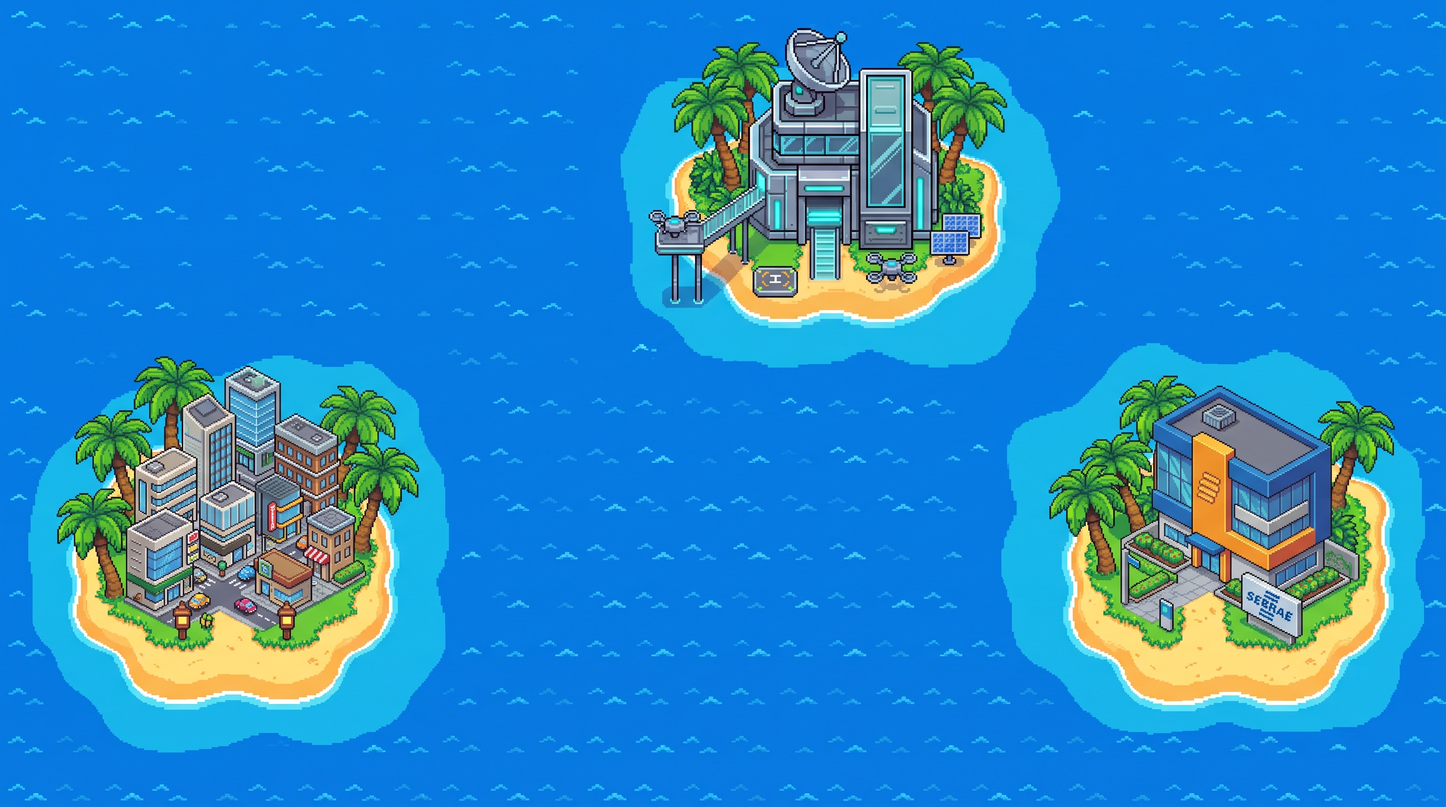
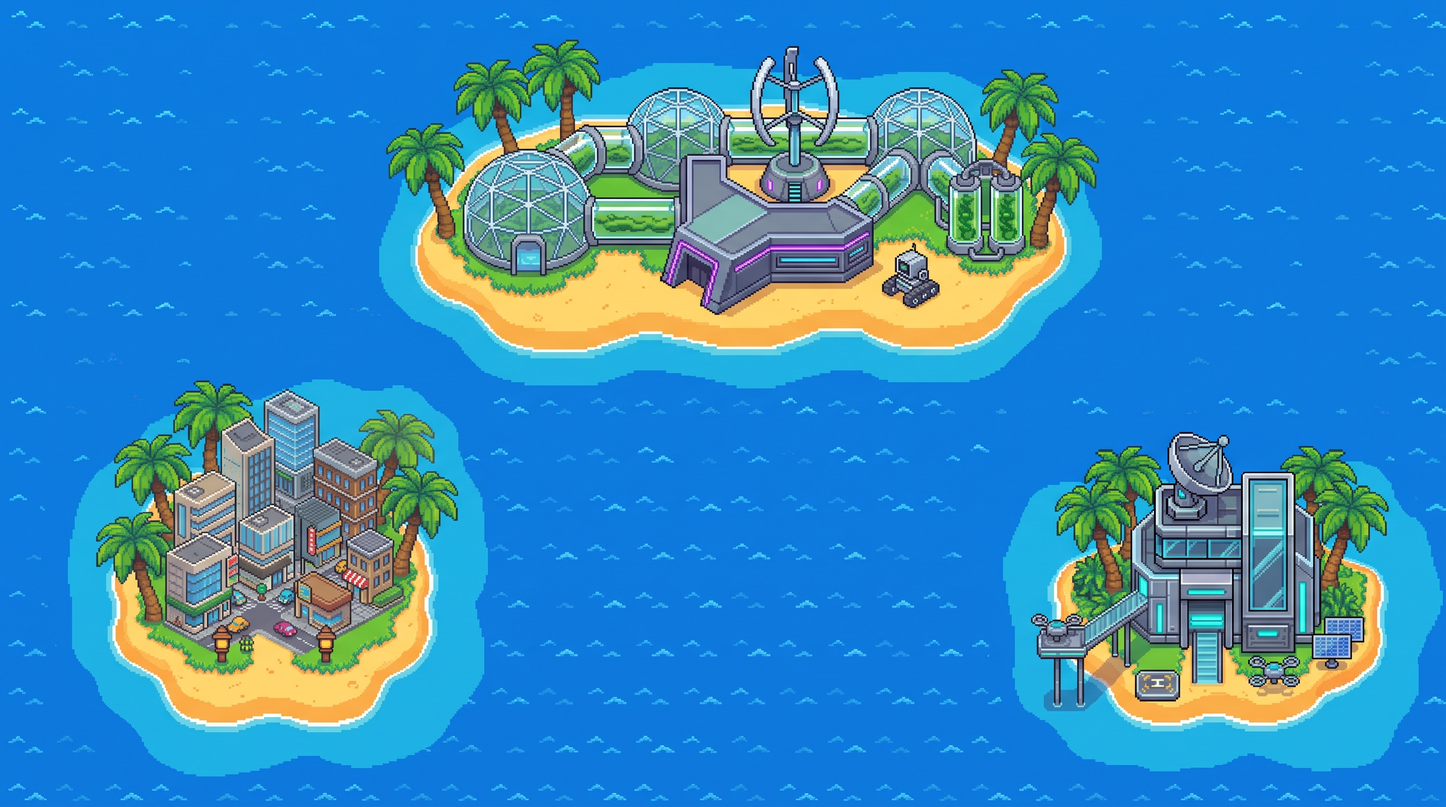
modificar o bg maps, desc empresa e regras

diff --git a/index.html b/index.html
@@ -204,37 +204,34 @@
 
             <ul>
               <li><strong>Movimento:</strong> use as setas na tela.</li>
-
               <li>
                 <strong>Objetivo:</strong> complete as 3 fases e derrote todos
                 os chefes.
               </li>
-
+              <li>
+                <strong>Mapa das Ilhas:</strong> ao vencer uma fase, você
+                voltará ao mapa geral para clicar e liberar a próxima ilha.
+              </li>
               <li>
                 <strong>Desafios:</strong> cada chefe faz 3 perguntas sobre o
                 tema da fase.
               </li>
-
               <li>
                 <strong>Tempo:</strong> responda rápido para ganhar mais pontos.
               </li>
-
               <li>
                 <strong>Vidas:</strong> respostas erradas ou tempo esgotado
                 fazem você perder uma vida.
               </li>
-
               <li>
                 <strong>Pontuação:</strong> acertos + velocidade + bônus pelas
                 vidas restantes.
               </li>
-
               <li>
                 <strong>Dica:</strong> converse com os personagens e leia os
                 murais para aprender mais.
               </li>
             </ul>
-
             <button class="back-btn" data-target="panel-menu">Voltar</button>
           </div>
 
@@ -242,30 +239,29 @@
           <div id="panel-empresa" class="menu-panel hidden">
             <h2>🏢 Sobre a Empresa</h2>
             <p>
-              A <strong>JS Grilo Contabilidade & Gestão</strong> é um escritório
-              de contabilidade com mais de <strong>duas décadas</strong> de
-              atuação no mercado, especializado em oferecer serviços de
-              contabilidade, assessoria fiscal, departamento pessoal,
-              planejamento tributário e consultoria empresarial.
+              O <strong>Sebrae RN</strong> é uma entidade privada, sem fins
+              lucrativos, que promove a competitividade e o desenvolvimento
+              sustentável dos pequenos negócios, estimulando o empreendedorismo
+              e fortalecendo a economia do estado do Rio Grande do Norte.
             </p>
 
             <p class="link">
               <strong>Instagram:</strong>
               <a
-                href="https://www.instagram.com/jsgrilocontabilidade?igsh=MTdmdDNmMGx1Yjl6ZA=="
+                href="https://www.instagram.com/sebraern"
                 target="_blank"
                 rel="noopener noreferrer"
-                >@jsgrilocontabilidade</a
+                >@sebraern</a
               >
             </p>
 
             <p class="link">
               <strong>Site:</strong>
               <a
-                href="https://www.jsgrilo.com.br"
+                href="https://www.rn.sebrae.com.br"
                 target="_blank"
                 rel="noopener noreferrer"
-                >www.jsgrilo.com.br</a
+                >www.rn.sebrae.com.br</a
               >
             </p>
             <button class="back-btn" data-target="panel-menu">Voltar</button>

diff --git a/game.js b/game.js
@@ -1778,9 +1778,9 @@ class MapScene extends Phaser.Scene {
     bg.setDisplaySize(960, 540);
 
     const islands = [
-      { id: 0, name: "FINECAP", x: 165, y: 430, arrowX: 165, arrowY: 200, iconX: 170, iconY: 365 },
-      { id: 1, name: "TRILHA DIGITAL", x: 510, y: 110, arrowX: 600, arrowY: 100, iconX: 555, iconY: 135 },
-      { id: 2, name: "FINANÇAS NA MÃO", x: 830, y: 430, arrowX: 780, arrowY: 270, iconX: 820, iconY: 350 }
+      { id: 0, name: "FINECAP", x: 175, y: 450, arrowX: 190, arrowY: 210, iconX: 170, iconY: 365 },
+      { id: 1, name: "TRILHA DIGITAL", x: 510, y: 200, arrowX: 510, arrowY: 60, iconX: 510, iconY: 135 },
+      { id: 2, name: "ACELERADOR DIGITAL", x: 830, y: 450, arrowX: 840, arrowY: 240, iconX: 820, iconY: 400 }
     ];
 
     const pathGraphics = this.add.graphics().setDepth(1);
